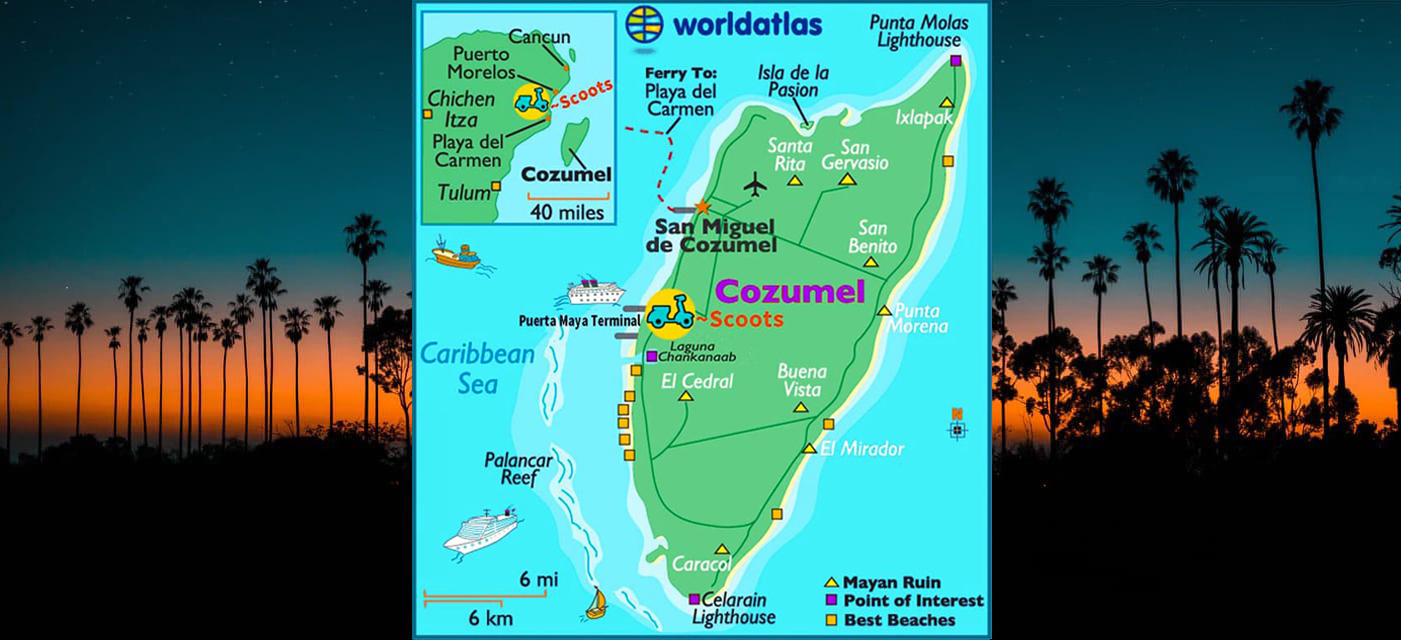
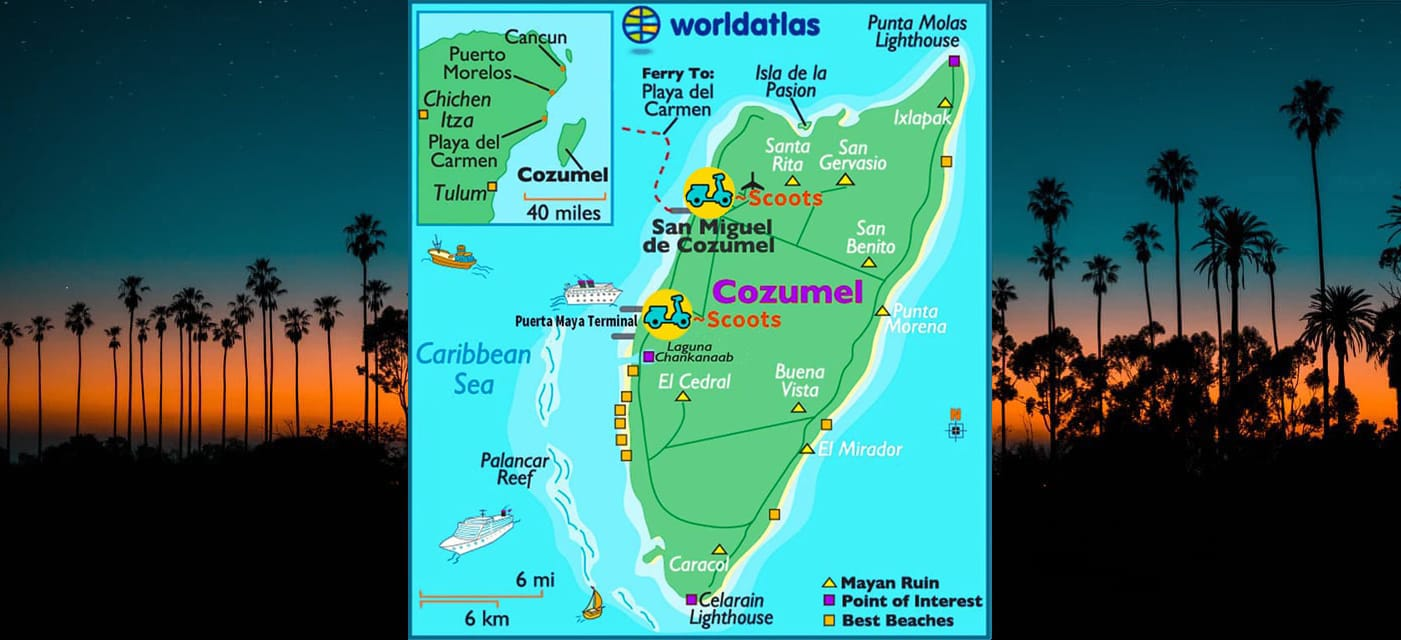
commit

Changed region(s): [[0.2762, 0.0, 0.7059, 1.0], [0.5832, 0.875, 0.7059, 1.0], [0.6752, 0.625, 0.7059, 0.6875]]

diff --git a/jet-scoots/index.html b/jet-scoots/index.html
@@ -135,7 +135,7 @@
                         wildlife, your favorite person is seated right behind you, holding on tight!</i>
                     <br><br> Come to Cozumel Island,
                     off the coast of Mexico in the western Caribbean Sea! ~ScOOts has everything you need to get around.
-                    Two convenient locations: <a href="https://www.google.com/maps/place/Zazil-ha,+77720+Playa+del+Carmen,+Quintana+Roo,+Mexico"><span class="fontdiner">Playa del Carmen</span></a>-Cozumel Ferry Dock and the <a href="https://www.google.com/maps/place/Carnival+Cruiselines+Pier%2FDock%2FPort/@20.4756694,-86.9763021,18z/data=!4m8!1m2!2m1!1sPuerta+Maya+Terminal!3m4!1s0x8f4e57491a71c81d:0x6933058e58e0ee3d!8m2!3d20.4754965!4d-86.9755136"><span class="fontdiner">Terminal Puerta
+                    Two convenient locations: Playa del Carmen-<a href="https://www.google.com/maps/place/Playa+del+Carmen-Cozumel+Ferry+Dock/@20.5119974,-86.9529677,17z/data=!3m1!4b1!4m5!3m4!1s0x8f4e59cf3a0ece15:0x9216e3c2b55e5526!8m2!3d20.5119974!4d-86.950779"><span class="fontdiner">Cozumel Ferry Dock</span></a> and the <a href="https://www.google.com/maps/place/Carnival+Cruiselines+Pier%2FDock%2FPort/@20.4756694,-86.9763021,18z/data=!4m8!1m2!2m1!1sPuerta+Maya+Terminal!3m4!1s0x8f4e57491a71c81d:0x6933058e58e0ee3d!8m2!3d20.4754965!4d-86.9755136"><span class="fontdiner">Terminal Puerta
                     Maya</span></a>. Rent a Honda Metro, Honda Dio, or Honda PCX scooter. For a bigger group, rent a
                     Honda Pioneer, or a 4-door
                     or 2-door Jeep Wrangler. Go to <a

diff --git a/jet-scoots/contact.html b/jet-scoots/contact.html
@@ -162,21 +162,22 @@
             </div>
             <div id="foot4">
                 <h3>
-                    Playa del Carmen Location
+                    Playa del Carmen-<br>Cozumel Ferry Dock
                 </h3>
-                <p>~ScOOts~ Playa del Carmen<br>
-                    77720 Playa del Carmen<br>
+                <p>~ScOOts~ Ferry Dock<br>
+                    Av. Rafael E. Melgar, Centro<br> 
+                    77600 San Miguel de Cozumel<br>
                     Quintana Roo Mexico</p>
                 <img src="images/PlayaDelCarmen.jpg" alt="map of Play del Carmen">
                 <div>
                     <br><a id="google2"
-                        href="https://www.google.com/maps/place/Zazil-ha,+77720+Playa+del+Carmen,+Quintana+Roo,+Mexico">Get
+                    href="https://www.google.com/maps/place/Playa+del+Carmen-Cozumel+Ferry+Dock/@20.5119974,-86.9529677,17z/data=!3m1!4b1!4m5!3m4!1s0x8f4e59cf3a0ece15:0x9216e3c2b55e5526!8m2!3d20.5119974!4d-86.950779">Get
                         directions~> Google Maps</a>
                 </div>
             </div>
             <div id="foot5">
                 <h3>
-                    Puerta Maya Terminal Location
+                    Terminal Puerta Maya
                 </h3>
                 <p>~ScOOts~ Puerta Maya<br>
                     77600 San Miguel de Cozumel<br>

diff --git a/jet-scoots/rentals.html b/jet-scoots/rentals.html
@@ -213,21 +213,22 @@
             </div>
             <div id="foot4">
                 <h3>
-                    Playa del Carmen Location
+                    Playa del Carmen-<br>Cozumel Ferry Dock
                 </h3>
-                <p>~ScOOts~ Playa del Carmen<br>
-                    77720 Playa del Carmen<br>
+                <p>~ScOOts~ Ferry Dock<br>
+                    Av. Rafael E. Melgar, Centro<br> 
+                    77600 San Miguel de Cozumel<br>
                     Quintana Roo Mexico</p>
                 <img src="images/PlayaDelCarmen.jpg" alt="map of Play del Carmen">
                 <div>
                     <br><a id="google2"
-                        href="https://www.google.com/maps/place/Zazil-ha,+77720+Playa+del+Carmen,+Quintana+Roo,+Mexico">Get
+                     href="https://www.google.com/maps/place/Playa+del+Carmen-Cozumel+Ferry+Dock/@20.5119974,-86.9529677,17z/data=!3m1!4b1!4m5!3m4!1s0x8f4e59cf3a0ece15:0x9216e3c2b55e5526!8m2!3d20.5119974!4d-86.950779">Get
                         directions~> Google Maps</a>
                 </div>
             </div>
             <div id="foot5">
                 <h3>
-                    Puerta Maya Terminal Location
+                   Terminal Puerta Maya
                 </h3>
                 <p>~ScOOts~ Puerta Maya<br>
                     77600 San Miguel de Cozumel<br>

diff --git a/jet-scoots/reservations.html b/jet-scoots/reservations.html
@@ -287,21 +287,22 @@
             </div>
             <div id="foot4">
                 <h3>
-                    Playa del Carmen Location
+                    Playa del Carmen-<br>Cozumel Ferry Dock
                 </h3>
-                <p>~ScOOts~ Playa del Carmen<br>
-                    77720 Playa del Carmen<br>
+                <p>~ScOOts~ Ferry Dock<br>
+                    Av. Rafael E. Melgar, Centro<br> 
+                    77600 San Miguel de Cozumel<br>
                     Quintana Roo Mexico</p>
                 <img src="images/PlayaDelCarmen.jpg" alt="map of Play del Carmen">
                 <div>
                     <br><a id="google2"
-                        href="https://www.google.com/maps/place/Zazil-ha,+77720+Playa+del+Carmen,+Quintana+Roo,+Mexico">Get
+                    href="https://www.google.com/maps/place/Playa+del+Carmen-Cozumel+Ferry+Dock/@20.5119974,-86.9529677,17z/data=!3m1!4b1!4m5!3m4!1s0x8f4e59cf3a0ece15:0x9216e3c2b55e5526!8m2!3d20.5119974!4d-86.950779">Get
                         directions~> Google Maps</a>
                 </div>
             </div>
             <div id="foot5">
                 <h3>
-                    Puerta Maya Terminal Location
+                    Terminal Puerta Maya
                 </h3>
                 <p>~ScOOts~ Puerta Maya<br>
                     77600 San Miguel de Cozumel<br>

diff --git a/jet-scoots/thanks.html b/jet-scoots/thanks.html
@@ -96,21 +96,22 @@
             </div>
             <div id="foot4">
                 <h3>
-                    Playa del Carmen Location
+                    Playa del Carmen-<br>Cozumel Ferry Dock
                 </h3>
-                <p>~ScOOts~ Playa del Carmen<br>
-                    77720 Playa del Carmen<br>
+                <p>~ScOOts~ Ferry Dock<br>
+                    Av. Rafael E. Melgar, Centro<br> 
+                    77600 San Miguel de Cozumel<br>
                     Quintana Roo Mexico</p>
                 <img src="images/PlayaDelCarmen.jpg" alt="map of Play del Carmen">
                 <div>
                     <br><a id="google2"
-                        href="https://www.google.com/maps/place/Zazil-ha,+77720+Playa+del+Carmen,+Quintana+Roo,+Mexico">Get
+                    href="https://www.google.com/maps/place/Playa+del+Carmen-Cozumel+Ferry+Dock/@20.5119974,-86.9529677,17z/data=!3m1!4b1!4m5!3m4!1s0x8f4e59cf3a0ece15:0x9216e3c2b55e5526!8m2!3d20.5119974!4d-86.950779">Get
                         directions~> Google Maps</a>
                 </div>
             </div>
             <div id="foot5">
                 <h3>
-                    Puerta Maya Terminal Location
+                    Terminal Puerta Maya
                 </h3>
                 <p>~ScOOts~ Puerta Maya<br>
                     77600 San Miguel de Cozumel<br>
